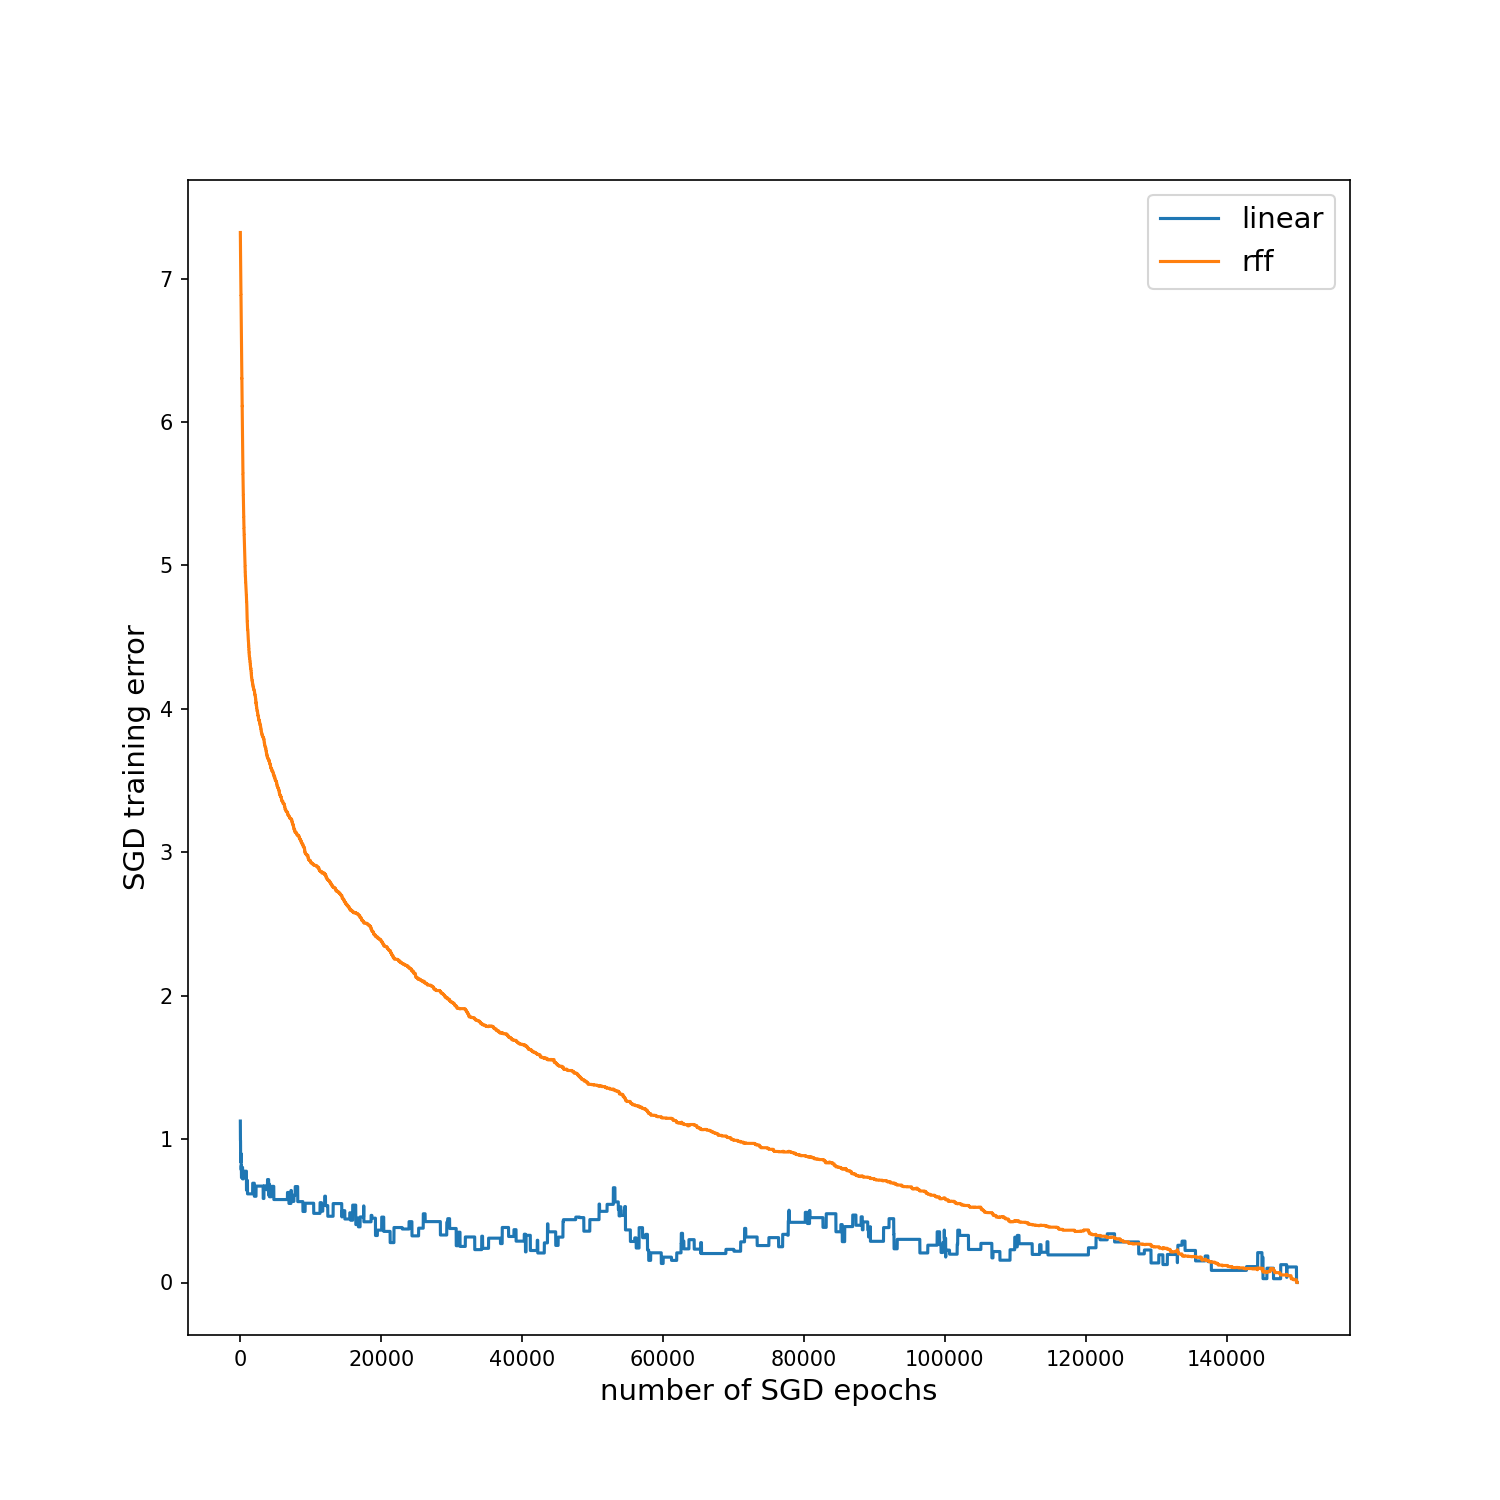
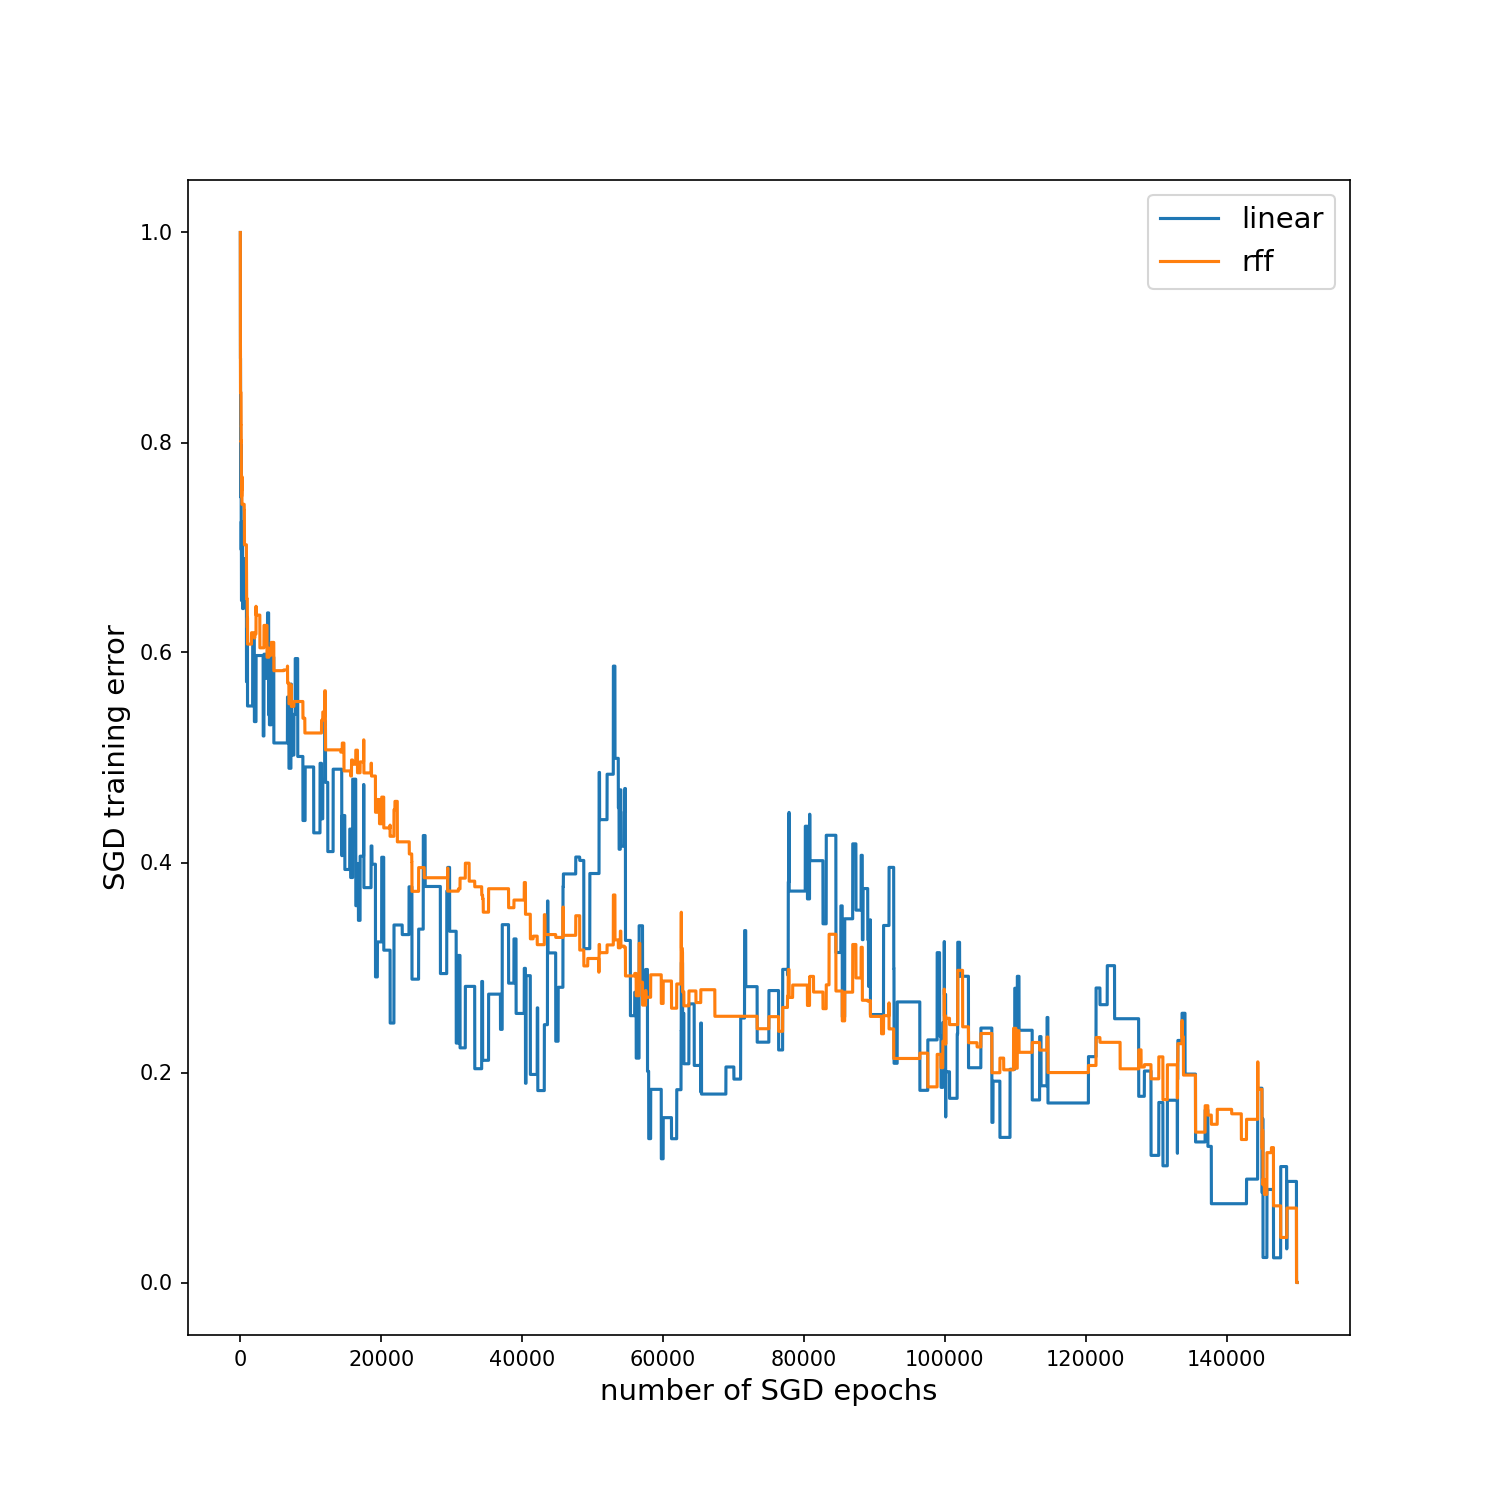
A little, tiny bugfix

diff --git a/svm.py b/svm.py
@@ -132,7 +132,7 @@ class SequentialSVM:
 
         if self.store_sgd_progress:
             for stored_w in self.stored_weights:
-                self.sgd_progress.append(np.linalg.norm(self.w - stored_w, ord=1) / np.linalg.norm(self.w))
+                self.sgd_progress.append(np.linalg.norm(self.w - stored_w, ord=1) / np.linalg.norm(self.w, ord=1))
 
     def runner(self, X, y):
         """
